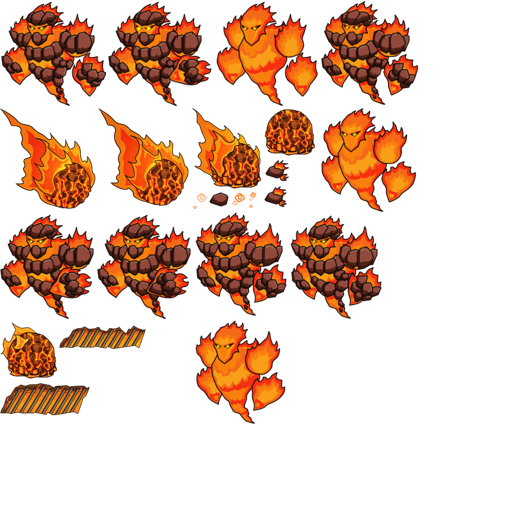
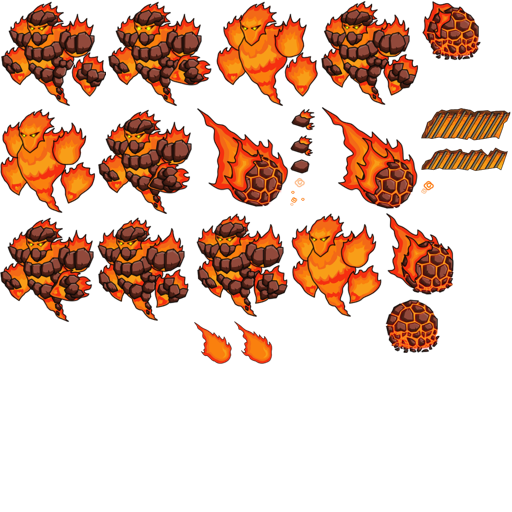
Have working fireballs now.

Changed region(s): [[0.0, 0.1875, 1.0, 0.8438], [0.8125, 0.0, 0.9375, 0.125]]

diff --git a/Clay/Classes/Game/GameObjects/GameObject.m b/Clay/Classes/Game/GameObjects/GameObject.m
@@ -209,6 +209,9 @@
     } else if(_currentBehavior == COLLISION_BEHAVIOR_FIRE_DEMON_ARMOR) {
         _alpha = 1.0f;
         _fadeout = true;
+    } else if(_currentBehavior == COLLISION_BEHAVIOR_FIREBALL_LANDED) {
+        _alpha = 1.2f;
+        _fadeout = true;
     }
     
     return _playerEffect;
@@ -403,6 +406,29 @@
         if ([self closeToPlayer:GAME_OBJECT_DISTANCE_ONSCREEN]) {
             _vx = -0.0f;
         }
+    } else if(_currentBehavior == COLLISION_BEHAVIOR_FIREBALL_START) {
+        if ([self closeToPlayer:GAME_OBJECT_DISTANCE_ONSCREEN]) {
+            Player *player = [[LayerManager sharedLayers] getPlayer];
+            CGPoint position = [player getPosition];
+            [self setPositionAtX:(position.x - 100.0f) Y:350.0f];
+            [self setPlayerEffect:@"none"];
+            _currentBehavior = COLLISION_BEHAVIOR_FIREBALL_MOVING;
+            
+        }
+    } else if(_currentBehavior == COLLISION_BEHAVIOR_FIREBALL_MOVING) {
+        _vx += 160.0f;
+        _vy += 100.0f;
+        if (_y <= 75.0f) {
+            _vx = 0.0f;
+            _vy = 0.0f;
+            _x = _prevLocation.x;
+            _y = 90.0f;
+            [self setPositionAtX:_x Y:_y];
+            [[AnimationController sharedController] replaceSprite:self.sprite withAnimationNamed:@"fireballLandingAnim"];
+            NSLog(@"fireball stop");
+            _currentBehavior = COLLISION_BEHAVIOR_FIREBALL_LANDED;
+            [self setPlayerEffect:@"collide"];
+        }
     }
 
 }
@@ -508,6 +534,9 @@
         _currentBehavior = COLLISION_BEHAVIOR_FIRE_DEMON;
     } else if(_currentBehavior == COLLISION_BEHAVIOR_FIRE_DEMON_ARMOR) {
         _currentBehavior = COLLISION_BEHAVIOR_FIRE_DEMON_ARMOR;
+    } else if(_currentBehavior == COLLISION_BEHAVIOR_FIREBALL_START || _currentBehavior == COLLISION_BEHAVIOR_FIREBALL_MOVING || _currentBehavior == COLLISION_BEHAVIOR_FIREBALL_LANDED) {
+        _currentBehavior = COLLISION_BEHAVIOR_FIREBALL_START;
+        [[AnimationController sharedController] replaceSprite:self.sprite withAnimationNamed:@"fireballMovingAnim"];
     } else if(_currentBehavior != COLLISION_BEHAVIOR_CHARGE_AT_PLAYER && _currentBehavior != COLLISION_BEHAVIOR_CHARGE_AT_PLAYER_FAST) {
         _currentBehavior = COLLISION_BEHAVIOR_STATIC;     
 }         _collided = false;
@@ -575,6 +604,9 @@
     } else if([behavior isEqualToString:@"fireDemonWithArmor"]) {
         _collideBehavior = COLLISION_BEHAVIOR_FIRE_DEMON_ARMOR;
         _currentBehavior = COLLISION_BEHAVIOR_FIRE_DEMON_ARMOR;
+    } else if([behavior isEqualToString:@"fireball"]) {
+        _collideBehavior = COLLISION_BEHAVIOR_FIREBALL_LANDED;
+        _currentBehavior = COLLISION_BEHAVIOR_FIREBALL_START;
     }
 
     

diff --git a/Clay/Classes/Game/Other/Collidable.h b/Clay/Classes/Game/Other/Collidable.h
@@ -37,7 +37,11 @@ typedef enum {
     COLLISION_BEHAVIOR_ROLLING_HAYBALE,
     COLLISION_BEHAVIOR_MAD_DOG,
     COLLISION_BEHAVIOR_FIRE_DEMON,
-    COLLISION_BEHAVIOR_FIRE_DEMON_ARMOR
+    COLLISION_BEHAVIOR_FIRE_DEMON_ARMOR,
+    COLLISION_BEHAVIOR_FIREBALL_START,
+    COLLISION_BEHAVIOR_FIREBALL_MOVING,
+    COLLISION_BEHAVIOR_FIREBALL_LANDED,
+    COLLISION_BEHAVIOR_FIREBALL_DEAD
 } CollisionBehavior;
 
 @protocol Collidable <NSObject>
